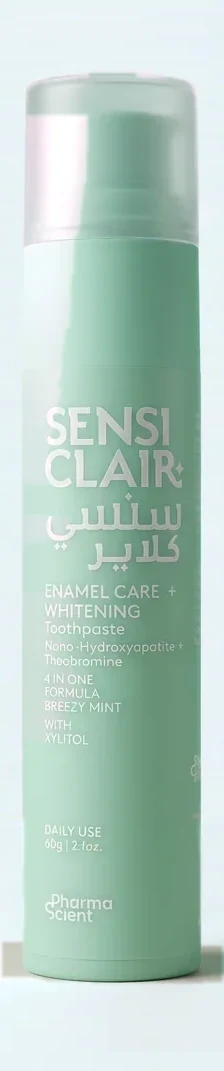
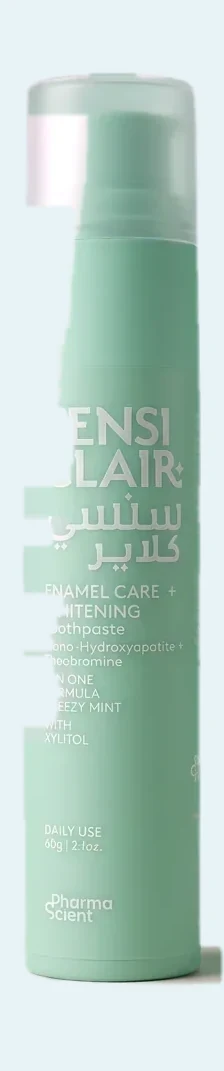
Flat ground behind the SensiClair bottle; strips take the serum's hue
Relighting the SensiClair backdrop preserved its contact shadow by design, and
that shadow runs about forty rows deep and reaches both frame edges - against a
flat ground it read as a dirty smear across the bottom rather than as a shadow.
The renders it shares a zoom sequence with carry no baked shadow either, since
the card adds one in CSS, so the background is now filled with #e8f3f6 outright
and the bottle left exactly as photographed.

The whitening strips card moves from visual-coral to the serum's hue at a
lighter value - the same 268, at 90% lightness against the serum's 83%. They
are the two whitening products, so they now read as a pair rather than the
strips borrowing a colour from elsewhere in the set. It gets its own class:
visual-coral also carries the copper tongue cleaner, which should stay sage.
The strips product page was already on the serum's exact tile and moves to the
lighter one too, so the card and the page agree.

diff --git a/range.html b/range.html
@@ -23,7 +23,7 @@
 
 <link rel="preconnect" href="https://fonts.googleapis.com">
 <link rel="preconnect" href="https://fonts.gstatic.com" crossorigin>
-<link rel="stylesheet" href="style.css?v=46">
+<link rel="stylesheet" href="style.css?v=47">
 
 <script>document.documentElement.classList.add('js');</script>
 
@@ -537,7 +537,7 @@
 
       <article class="product-card" id="cr311" data-category="whitening">
         <div class="product-card-top"><span>CR / 311</span><span class="product-badge">Core range</span></div>
-        <div class="product-visual visual-coral">
+        <div class="product-visual visual-violet-soft">
           <div class="visual-shadow"></div>
           <img class="official-product-image" src="official/cr311-whitening-strips.webp" alt="Clair Whitening Strips CR311, PAP-based peroxide-free strips" loading="lazy" width="300" height="290">
         </div>
@@ -831,6 +831,6 @@
   </figure>
 </div>
 
-<script src="script.js?v=46"></script>
+<script src="script.js?v=47"></script>
 </body>
 </html>

diff --git a/products/whitening-strips/index.html b/products/whitening-strips/index.html
@@ -26,7 +26,7 @@
 
 <link rel="preconnect" href="https://fonts.googleapis.com">
 <link rel="preconnect" href="https://fonts.gstatic.com" crossorigin>
-<link rel="stylesheet" href="/style.css?v=46">
+<link rel="stylesheet" href="/style.css?v=47">
 
 <script>document.documentElement.classList.add('js');</script>
 
@@ -179,7 +179,7 @@
 </section>
 
 <section class="product-page section-shell" id="product">
-  <figure class="product-figure visual-violet">
+  <figure class="product-figure visual-violet-soft">
     <img class="official-product-image" src="/official/cr311-whitening-strips.webp" alt="Clair Whitening Strips CR311, PAP-based peroxide-free strips" width="300" height="290">
   </figure>
 
@@ -336,6 +336,6 @@
   </figure>
 </div>
 
-<script src="/script.js?v=46"></script>
+<script src="/script.js?v=47"></script>
 </body>
 </html>

diff --git a/style.css b/style.css
@@ -85,6 +85,11 @@ a { color: inherit; }
 .visual-lemon  { background: #d7e4e0; }  /* cool eucalyptus     */
 .visual-rose   { background: #e2e3e5; }  /* near-neutral        */
 .visual-violet { background: #d3c6e2; }  /* the serum, on purpose */
+/* The strips are the other whitening product, so they take the serum's hue at a
+   lighter value - same 268, 90% lightness against the serum's 83% - rather than
+   a colour from elsewhere in the set. Its own class, because the tile it used
+   to share (visual-coral) also carries the copper tongue cleaner. */
+.visual-violet-soft { background: #e5ddee; }
 
 /* --- Skip link ------------------------------------------------------------ */
 .skip-link {

diff --git a/index.html b/index.html
@@ -32,7 +32,7 @@
 <link rel="preconnect" href="https://fonts.gstatic.com" crossorigin>
 <!-- ?v bumped whenever style.css or script.js changes, so browsers holding a
      cached copy pick up the new version. -->
-<link rel="stylesheet" href="style.css?v=46">
+<link rel="stylesheet" href="style.css?v=47">
 
 <!-- Set before first paint so scroll-reveal blocks never flash in and out. -->
 <script>document.documentElement.classList.add('js');</script>
@@ -504,6 +504,6 @@
   </div>
 </div>
 
-<script src="script.js?v=46"></script>
+<script src="script.js?v=47"></script>
 </body>
 </html>

diff --git a/products/anti-plaque-toothbrush-cr110/index.html b/products/anti-plaque-toothbrush-cr110/index.html
@@ -26,7 +26,7 @@
 
 <link rel="preconnect" href="https://fonts.googleapis.com">
 <link rel="preconnect" href="https://fonts.gstatic.com" crossorigin>
-<link rel="stylesheet" href="/style.css?v=46">
+<link rel="stylesheet" href="/style.css?v=47">
 
 <script>document.documentElement.classList.add('js');</script>
 
@@ -309,6 +309,6 @@
   </figure>
 </div>
 
-<script src="/script.js?v=46"></script>
+<script src="/script.js?v=47"></script>
 </body>
 </html>

diff --git a/products/anti-plaque-toothbrush-cr150/index.html b/products/anti-plaque-toothbrush-cr150/index.html
@@ -26,7 +26,7 @@
 
 <link rel="preconnect" href="https://fonts.googleapis.com">
 <link rel="preconnect" href="https://fonts.gstatic.com" crossorigin>
-<link rel="stylesheet" href="/style.css?v=46">
+<link rel="stylesheet" href="/style.css?v=47">
 
 <script>document.documentElement.classList.add('js');</script>
 
@@ -309,6 +309,6 @@
   </figure>
 </div>
 
-<script src="/script.js?v=46"></script>
+<script src="/script.js?v=47"></script>
 </body>
 </html>

diff --git a/products/anti-plaque-toothbrush-cr180/index.html b/products/anti-plaque-toothbrush-cr180/index.html
@@ -26,7 +26,7 @@
 
 <link rel="preconnect" href="https://fonts.googleapis.com">
 <link rel="preconnect" href="https://fonts.gstatic.com" crossorigin>
-<link rel="stylesheet" href="/style.css?v=46">
+<link rel="stylesheet" href="/style.css?v=47">
 
 <script>document.documentElement.classList.add('js');</script>
 
@@ -309,6 +309,6 @@
   </figure>
 </div>
 
-<script src="/script.js?v=46"></script>
+<script src="/script.js?v=47"></script>
 </body>
 </html>

diff --git a/products/copper-tongue-cleaner/index.html b/products/copper-tongue-cleaner/index.html
@@ -26,7 +26,7 @@
 
 <link rel="preconnect" href="https://fonts.googleapis.com">
 <link rel="preconnect" href="https://fonts.gstatic.com" crossorigin>
-<link rel="stylesheet" href="/style.css?v=46">
+<link rel="stylesheet" href="/style.css?v=47">
 
 <script>document.documentElement.classList.add('js');</script>
 
@@ -308,6 +308,6 @@
   </figure>
 </div>
 
-<script src="/script.js?v=46"></script>
+<script src="/script.js?v=47"></script>
 </body>
 </html>

diff --git a/products/cordless-water-flosser/index.html b/products/cordless-water-flosser/index.html
@@ -26,7 +26,7 @@
 
 <link rel="preconnect" href="https://fonts.googleapis.com">
 <link rel="preconnect" href="https://fonts.gstatic.com" crossorigin>
-<link rel="stylesheet" href="/style.css?v=46">
+<link rel="stylesheet" href="/style.css?v=47">
 
 <script>document.documentElement.classList.add('js');</script>
 
@@ -310,6 +310,6 @@
   </figure>
 </div>
 
-<script src="/script.js?v=46"></script>
+<script src="/script.js?v=47"></script>
 </body>
 </html>

diff --git a/products/durafloss-floss-pick/index.html b/products/durafloss-floss-pick/index.html
@@ -26,7 +26,7 @@
 
 <link rel="preconnect" href="https://fonts.googleapis.com">
 <link rel="preconnect" href="https://fonts.gstatic.com" crossorigin>
-<link rel="stylesheet" href="/style.css?v=46">
+<link rel="stylesheet" href="/style.css?v=47">
 
 <script>document.documentElement.classList.add('js');</script>
 
@@ -308,6 +308,6 @@
   </figure>
 </div>
 
-<script src="/script.js?v=46"></script>
+<script src="/script.js?v=47"></script>
 </body>
 </html>

diff --git a/products/flossmate-floss-pick/index.html b/products/flossmate-floss-pick/index.html
@@ -26,7 +26,7 @@
 
 <link rel="preconnect" href="https://fonts.googleapis.com">
 <link rel="preconnect" href="https://fonts.gstatic.com" crossorigin>
-<link rel="stylesheet" href="/style.css?v=46">
+<link rel="stylesheet" href="/style.css?v=47">
 
 <script>document.documentElement.classList.add('js');</script>
 
@@ -308,6 +308,6 @@
   </figure>
 </div>
 
-<script src="/script.js?v=46"></script>
+<script src="/script.js?v=47"></script>
 </body>
 </html>

diff --git a/products/orthodontic-toothbrush-set/index.html b/products/orthodontic-toothbrush-set/index.html
@@ -26,7 +26,7 @@
 
 <link rel="preconnect" href="https://fonts.googleapis.com">
 <link rel="preconnect" href="https://fonts.gstatic.com" crossorigin>
-<link rel="stylesheet" href="/style.css?v=46">
+<link rel="stylesheet" href="/style.css?v=47">
 
 <script>document.documentElement.classList.add('js');</script>
 
@@ -308,6 +308,6 @@
   </figure>
 </div>
 
-<script src="/script.js?v=46"></script>
+<script src="/script.js?v=47"></script>
 </body>
 </html>
